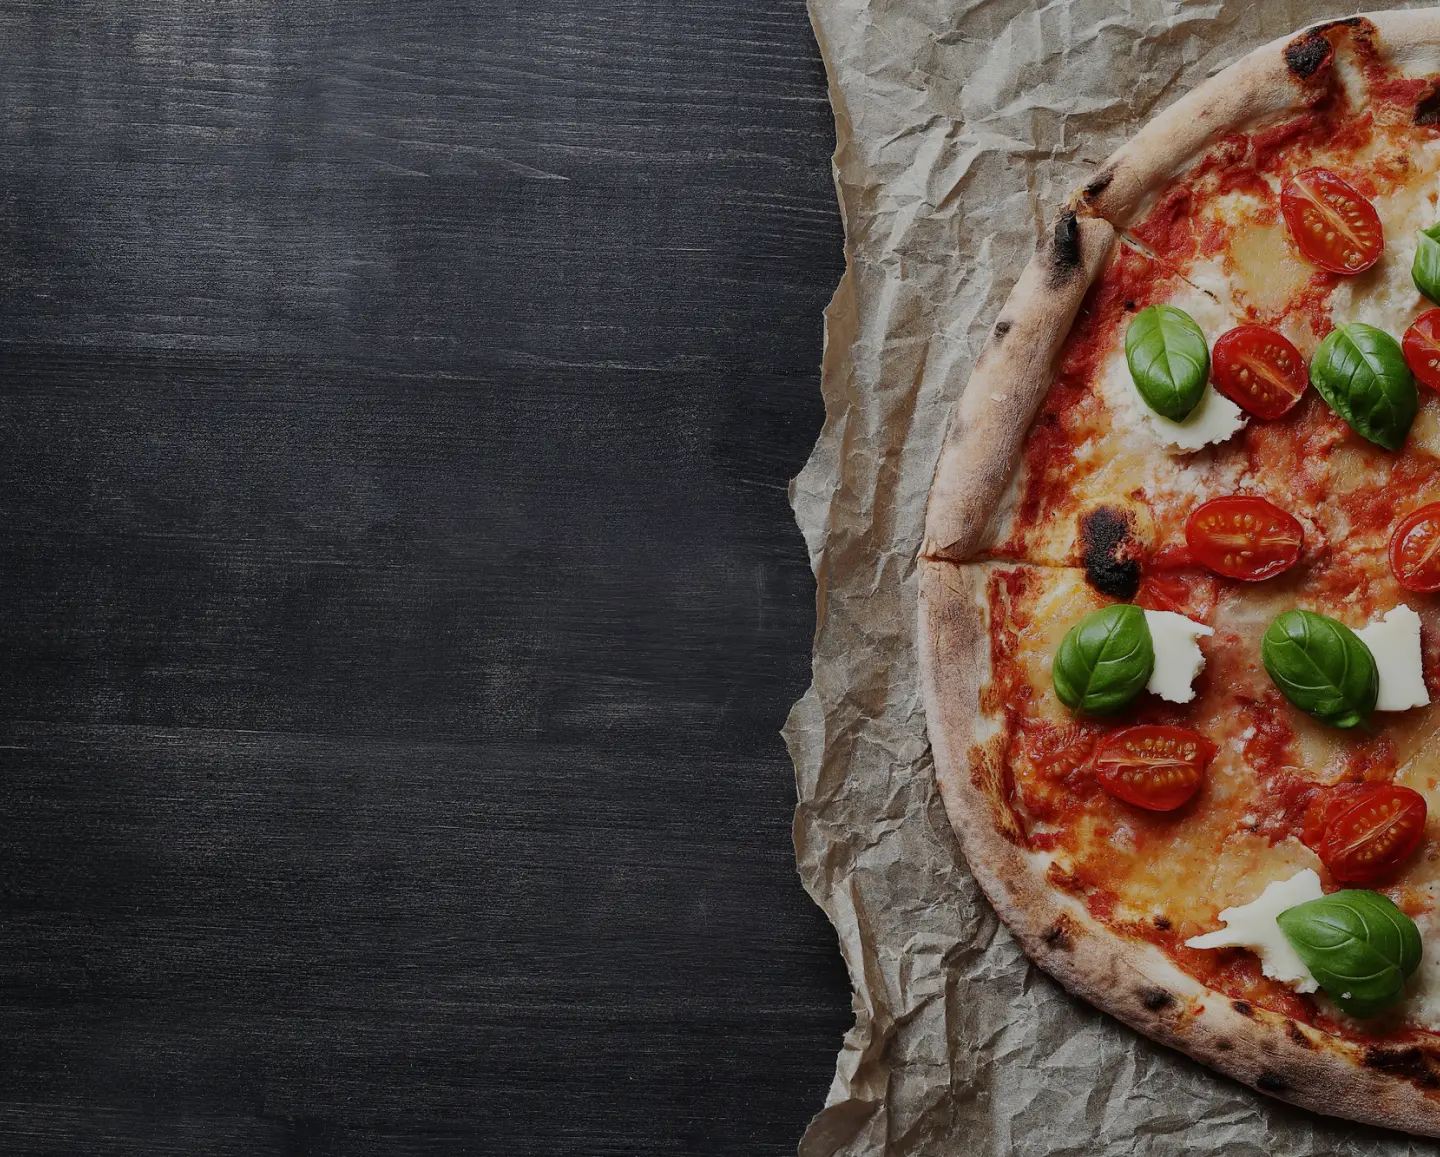
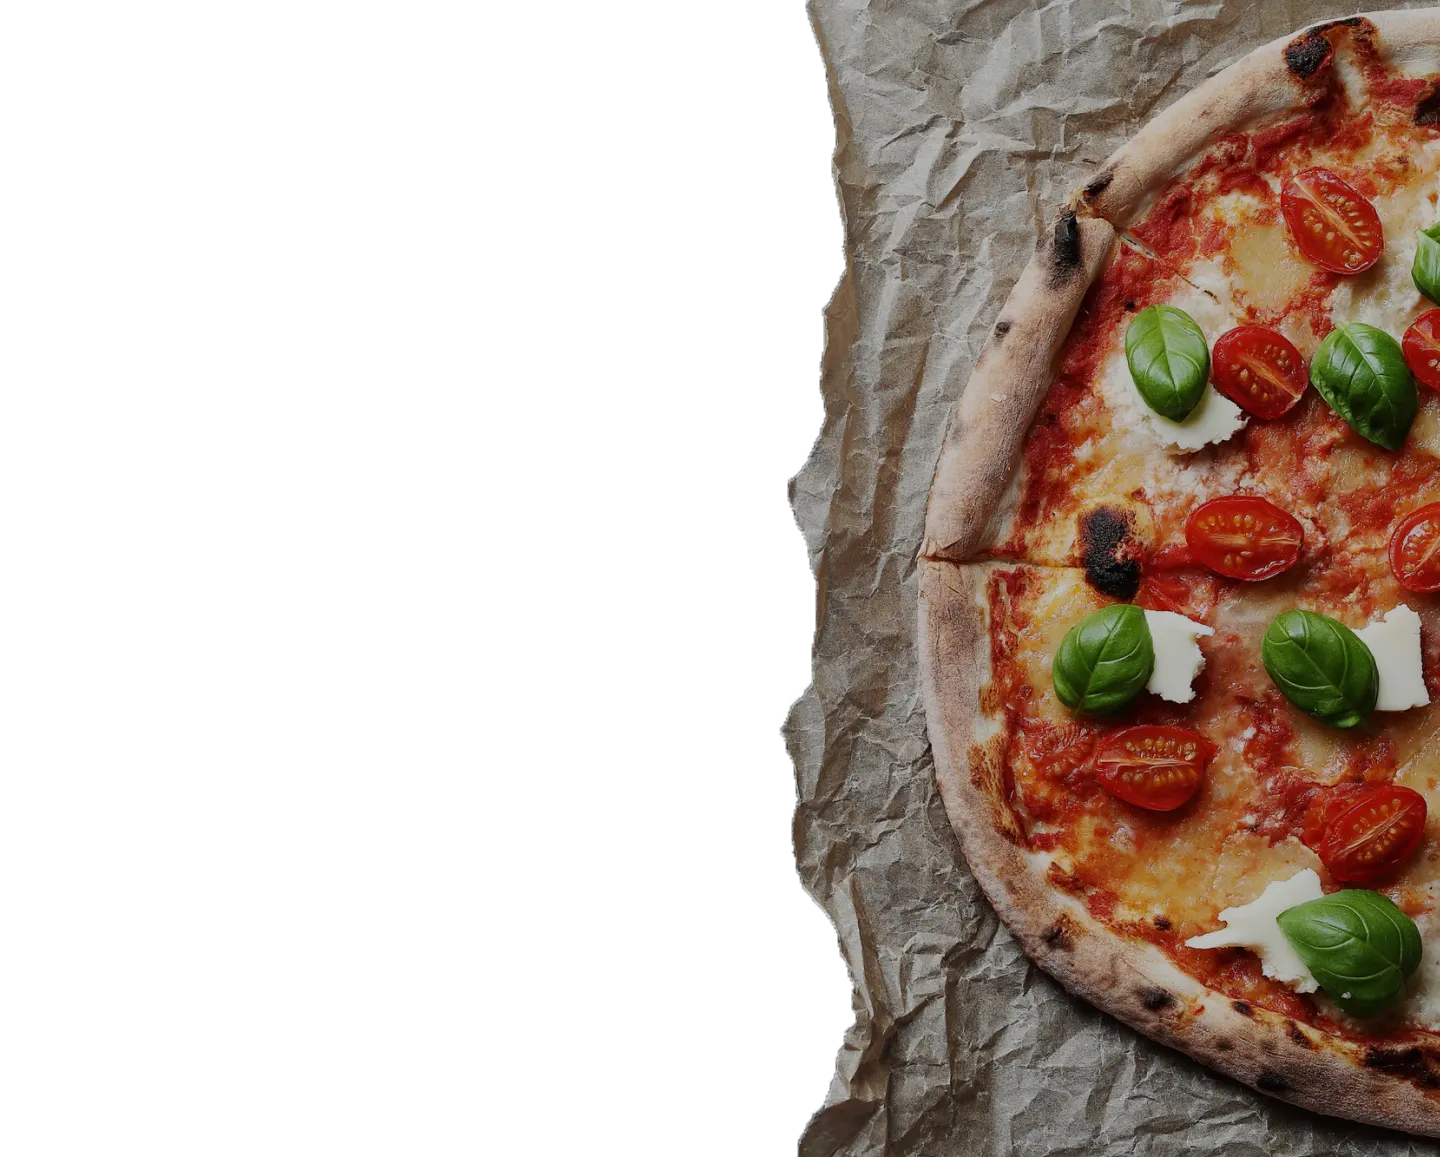
Project background changes

diff --git a/components/featured.vue b/components/featured.vue
@@ -12,7 +12,7 @@
                         class="project"
                     >
                         <nuxt-img class="project-logo" :src="project.logoUrl" :alt="`${project.title}-logo`"/>
-                        <nuxt-img class="project-bg" :src="project.bgUrl" :alt="`${project.title}-image`"/>
+                        <nuxt-img class="project-bg" :style="{ 'background-color': project.bgColor }" :src="project.bgUrl" :alt="`${project.title}-image`"/>
                     </button>
                 </div>
             </div>
@@ -65,6 +65,7 @@
         },
     });
 
+    const isDragging = ref<boolean>(false);
     const selectedProjectId = ref<number | null>(null);
     const lastSelectedProject = ref<any>(null);
     
@@ -72,8 +73,9 @@
         if (lastSelectedProject.value) {
             return {
                 "color": lastSelectedProject.value.isDark ? "white" : "var(--color-text)",
+                "background-color": lastSelectedProject.value.bgColor,
                 "background-image": `url('${lastSelectedProject.value.bgUrl}')`,
-                "text-shadow": `${lastSelectedProject.value.isDark ? "black" : "white" } 2px 2px 4px`,
+                "text-shadow": `1px 1px 2px ${lastSelectedProject.value.isDark ? "black" : "white"}`,
             };
         } else {
             return {};
@@ -93,11 +95,16 @@
                 onUpdate: (state : any) => {
                     content.style.transform = `translate(${-state.position.x}px)`;
                 },
+                onPointerUp: (state : any) => {
+                    isDragging.value = state.isDragging;
+                },
             });
         }
     });
 
     async function selectProject(event : MouseEvent, id : number) {
+        if (isDragging.value) return;
+
         if (process.client) {
             await new Promise<void>((resolve) => {
                 const element = document.querySelector(".project-container") as HTMLElement;
@@ -133,7 +140,7 @@
     .content {
         height: 100%;
         display: flex;
-        gap: 1rem;
+        gap: 2rem;
         user-select: none;
     }
 
@@ -162,7 +169,7 @@
         top: 0;
         left: 0;
         object-fit: cover;
-        object-position: bottom;
+        object-position: right;
         z-index: -1;
     }
 
@@ -178,7 +185,7 @@
         left: calc(var(--left-offset) - 50%);
         padding: var(--content-margin);
         background-size: cover;
-        background-position: center;
+        background-position: right;
         z-index: 10;
         pointer-events: none;
         transform: scale(0);
@@ -194,8 +201,9 @@
     }
 
     .project-container-content {
-        display: grid;
-        grid-template-columns: repeat(2, 1fr);
+        width: 50%;
+        display: flex;
+        flex-direction: column;
         gap: 4rem;
     }
 
@@ -241,8 +249,12 @@
             width: 16rem;
         }
 
+        .project-container {
+            background-position: center;
+        }
+
         .project-container-content {
-            grid-template-columns: 1fr;
+            width: 100%;
         }
     }
 </style>

diff --git a/pages/index.vue b/pages/index.vue
@@ -7,13 +7,14 @@
 
 <script lang="ts" setup>
     const featuredProjects : Project[] = [
-        {
+    {
             id: 0,
             isDark: false,
             title: "Metagem",
             url: "https://metagem.pro",
             logoUrl: "/images/metagem-logo.webp",
             bgUrl: "/images/metagem-background.webp",
+            bgColor: "#ebf1fa",
             paragraphTitle: "An AI powered web app used to generate custom metadata for SEO optimization.",
             techIcons: [
                 "logos:nuxt-icon",
@@ -29,6 +30,7 @@
             url: "https://badboys.netlify.app",
             logoUrl: "/images/badboys-logo.webp",
             bgUrl: "/images/badboys-background.webp",
+            bgColor: "#242424",
             paragraphTitle: "A fully functional website for a local pizzeria called BadBoys.",
             techIcons: [
                 "logos:nuxt-icon",

diff --git a/types/index.d.ts b/types/index.d.ts
@@ -8,6 +8,7 @@ declare global {
         url: string,
         logoUrl: string,
         bgUrl: string,
+        bgColor: string,
         paragraphTitle: string,
         techIcons: string[],
     }

diff --git a/assets/main.css b/assets/main.css
@@ -68,6 +68,7 @@ a:hover, button:hover {
     border-radius: 50%;
     background-color: var(--main-color);
     z-index: -1;
+    pointer-events: none;
     opacity: 0;
 }
 
